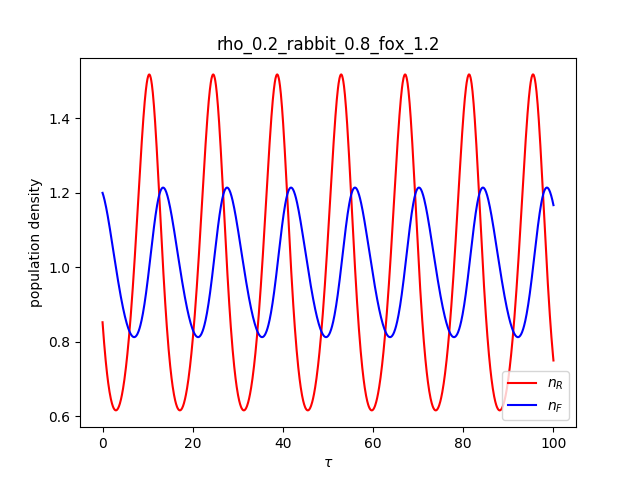
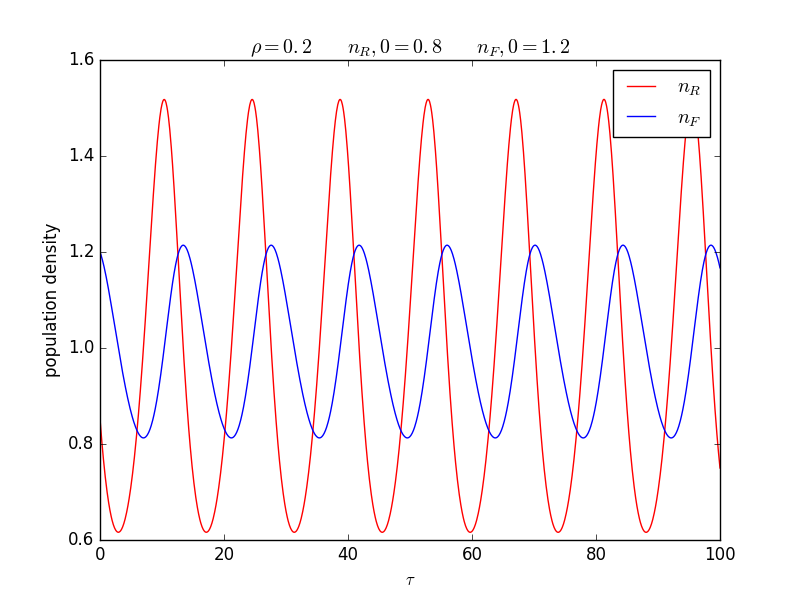
better title

Changed region(s): [[0.0312, 0.0625, 0.9375, 0.9375], [0.0625, 0.2188, 0.125, 0.2812]]

diff --git a/PA2/plot.py b/PA2/plot.py
@@ -19,7 +19,8 @@ for i in filename:
     ax.plot(data[0], data[2],'b', label=r'$n_F$')
     plt.xlabel(r'$\tau $')
     plt.ylabel('population density')
-    plt.title(i[:-4])
+    comment = r"$\rho = " + i[4:7] + r"\qquad n_R,0 = " + i[15:18] + r"\qquad n_F,0 = "+i[23:26] +r"$"
+    plt.title(comment)
     ax.legend()
     tmp = i[:-4]+'.png'
     fig.savefig(tmp)
